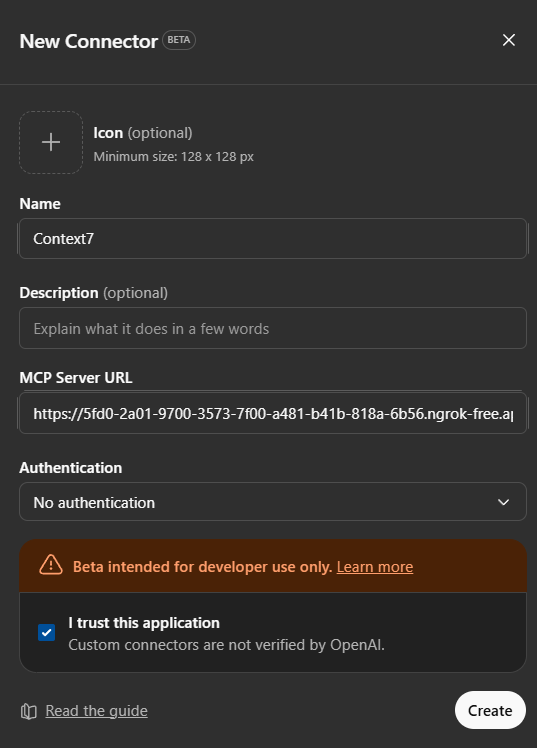
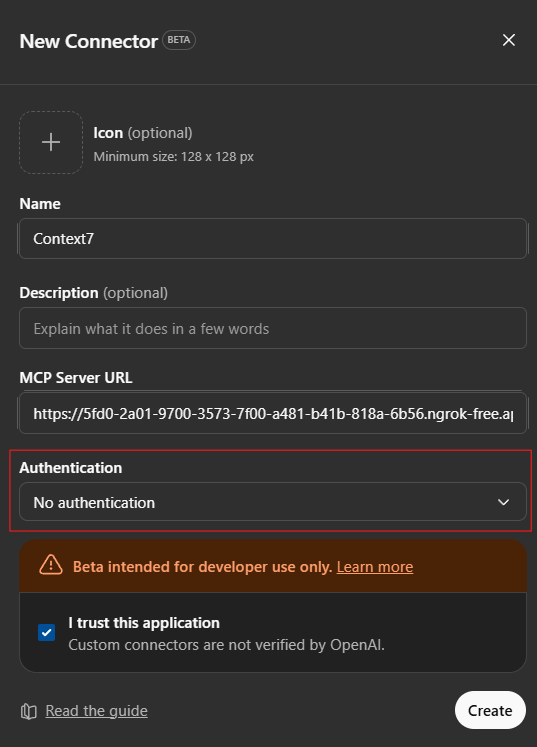
Update README with streamlined content and improved config image

diff --git a/README.md b/README.md
@@ -1,20 +1,17 @@
 # Context7 ChatGPT Bridge
 
-A production-ready bridge that allows ChatGPT to use the Context7 MCP server for accessing up-to-date programming documentation. This bridge implements ChatGPT's required `search` and `fetch` tools while internally using Context7's `resolve-library-id` and `get-library-docs` tools.
+## Why This Exists
 
-## Features
+ChatGPT needs access to current programming documentation but requires specific `search` and `fetch` tools. Context7 provides excellent up-to-date docs but uses different tools (`resolve-library-id` and `get-library-docs`). This bridge translates between them, giving ChatGPT access to Context7's documentation database.
 
-- **ChatGPT Compatible**: Implements the exact search/fetch specification required by ChatGPT MCP connectors
-- **Context7 Integration**: Uses the official Context7 MCP server (`@upstash/context7-mcp`) for documentation
-- **Advanced Parameter Support**: Supports topic-focused searches and custom token limits
-- **Direct Library ID Support**: Can work with Context7 library IDs directly (e.g., `/reactjs/react.dev`)
-- **Cross-Platform**: Works on Windows, Linux, and macOS
+## What It Does
+
+A bridge that allows ChatGPT to access up-to-date programming documentation through the Context7 MCP server. Implements ChatGPT's required `search` and `fetch` tools while using Context7's documentation database internally.
 
 ## Requirements
 
-- **Node.js** >= 18.0.0 (for Context7 MCP server)
+- **Node.js** >= 18.0.0
 - **Python** >= 3.8
-- **Internet connection**
 
 ## Quick Start
 
@@ -23,25 +20,69 @@ A production-ready bridge that allows ChatGPT to use the Context7 MCP server for
    pip install -r requirements.txt
    ```
 
-2. **Start the bridge with automatic ngrok:**
+2. **Start the bridge:**
    ```bash
    python context7_bridge.py
    ```
    
-   The script will automatically:
-   - Start the bridge server on port 8000
-   - Launch ngrok tunnel
-   - Display the ChatGPT-ready URL
+   The script automatically starts ngrok and displays the ChatGPT-ready URL.
 
-3. **Copy the URL to ChatGPT:**
-   The script will show you the exact URL to add to ChatGPT's MCP connector:
+3. **Add to ChatGPT:**
+   Copy the displayed URL to ChatGPT's MCP connectors:
    ```
    https://abc123.ngrok-free.app/sse
    ```
 
-### Alternative: Manual ngrok
+## Available Tools
 
-If you prefer manual control:
+### `search`
+Search for programming libraries and frameworks. Supports both library names (e.g., "React", "MongoDB") and direct Context7 library IDs (e.g., "/reactjs/react.dev").
+
+### `fetch`
+Fetch comprehensive documentation for specific libraries. Supports advanced parameters:
+
+- **Basic:** `library_id`
+- **Topic-focused:** `library_id|topic:hooks`
+- **Custom tokens:** `library_id|tokens:15000`
+- **Combined:** `library_id|topic:authentication|tokens:12000`
+
+### Example Topics
+
+- `hooks` - React hooks, useEffect, useState
+- `routing` - Navigation, route setup
+- `authentication` - Login, security, JWT
+- `installation` - Setup, configuration
+- `api` - API reference, methods
+- `examples` - Code examples, tutorials
+
+## How It Works
+
+```
+ChatGPT → ngrok → Bridge → Context7 MCP Server → Documentation Database
+```
+
+1. ChatGPT sends search/fetch requests to your bridge
+2. Bridge translates these to Context7's resolve-library-id/get-library-docs calls
+3. Context7 returns current documentation
+4. Bridge formats responses for ChatGPT
+
+## Configuration
+
+**Command-line options:**
+```bash
+python context7_bridge.py --help
+```
+
+- `--port` - Port to run on (default: 8000)
+- `--host` - Host to bind to (default: 127.0.0.1)
+- `--no-ngrok` - Disable automatic ngrok tunnel
+
+**Environment variables:**
+- `LOG_LEVEL` - Logging level (default: INFO)
+
+## Manual Setup
+
+If you prefer manual ngrok control:
 
 ```bash
 # Start without ngrok
@@ -51,88 +92,12 @@ python context7_bridge.py --no-ngrok
 ngrok http 8000
 ```
 
-## Usage
+## Testing
 
-### ChatGPT Integration
-
-Add your ngrok URL to ChatGPT's MCP connectors:
-
-```json
-{
-  "name": "Context7 Documentation",
-  "url": "https://your-ngrok-url.ngrok-free.app/sse",
-  "description": "Access up-to-date documentation for programming libraries"
-}
-```
-
-### Available Tools
-
-The bridge exposes two tools that ChatGPT can use:
-
-#### 1. `search`
-- Search for programming libraries and frameworks
-- Supports both library names (e.g., "React", "MongoDB") and direct Context7 library IDs (e.g., "/reactjs/react.dev")
-- Returns detailed metadata including trust scores and documentation coverage
-
-#### 2. `fetch`
-- Fetch comprehensive documentation for specific libraries
-- Supports advanced parameter syntax for focused documentation:
-  - Basic: `library_id`
-  - Topic-focused: `library_id|topic:hooks`
-  - Custom tokens: `library_id|tokens:15000`
-  - Combined: `library_id|topic:authentication|tokens:12000`
-
-### Example Topics
-
-- `hooks` - React hooks, custom hooks, useEffect, useState
-- `routing` - Navigation, route setup, dynamic routes
-- `authentication` - Login, security, JWT, OAuth
-- `installation` - Setup, configuration, getting started
-- `api` - API reference, methods, endpoints
-- `examples` - Code examples, tutorials, implementations
-
-## How It Works
-
-1. **ChatGPT** sends search/fetch requests to your bridge via ngrok
-2. **Bridge** translates these to Context7's resolve-library-id/get-library-docs calls
-3. **Context7** returns up-to-date documentation from their database
-4. **Bridge** formats responses in ChatGPT's expected format
-
-## Architecture
-
-```
-ChatGPT → ngrok → Bridge → Context7 MCP Server → Documentation Database
-                    ↓
-              search/fetch tools ← resolve-library-id/get-library-docs
-```
-
-## Configuration
-
-The bridge supports several command-line options:
+Test without ChatGPT:
 
 ```bash
-python context7_bridge.py --help
-```
-
-Options:
-- `--port` - Port to run on (default: 8000)
-- `--host` - Host to bind to (default: 127.0.0.1)
-- `--no-ngrok` - Disable automatic ngrok tunnel
-
-Environment variables:
-- `LOG_LEVEL` - Logging level (default: INFO)
-
-## Development
-
-### Testing Locally
-
-Test the bridge without ChatGPT:
-
-```bash
-# Start the bridge
-python context7_bridge.py --port 8000
-
-# Test health endpoint
+# Health check
 curl http://localhost:8000/health
 
 # Test search
@@ -141,32 +106,17 @@ curl -X POST http://localhost:8000/sse \
   -d '{"jsonrpc":"2.0","id":1,"method":"tools/call","params":{"name":"search","arguments":{"query":"react"}}}'
 ```
 
-### Code Structure
-
-- **Context7Client**: Handles subprocess communication with Context7 MCP server
-- **ChatGPTContext7Bridge**: Implements search/fetch logic and parameter parsing
-- **FastAPI app**: Provides SSE endpoint for ChatGPT compatibility
-
 ## Troubleshooting
 
-### Common Issues
+**"Could not get response from Context7 server"**
+- Ensure Node.js and npx are installed and in PATH
 
-1. **"Could not get response from Context7 server"**
-   - Ensure Node.js and npx are installed and in PATH
-   - Check internet connection for Context7 package download
+**"Unknown document ID"**
+- Always call `search` before `fetch` to get valid IDs
+- Or use direct Context7 library IDs (starting with `/`)
+- Note: Tool descriptions may need refinement for ChatGPT to better understand the search-first workflow - currently works but ChatGPT occasionally has hiccups with the sequence
 
-2. **"Unknown document ID"**
-   - Always call `search` before `fetch` to get valid IDs
-   - Or use direct Context7 library IDs (starting with `/`)
-
-3. **ngrok connection issues**
-   - Verify ngrok is running and accessible
-   - Check that the bridge port is available
-
-### Debug Mode
-
-Enable debug logging:
-
+**Debug mode:**
 ```bash
 LOG_LEVEL=DEBUG python context7_bridge.py
 ```
